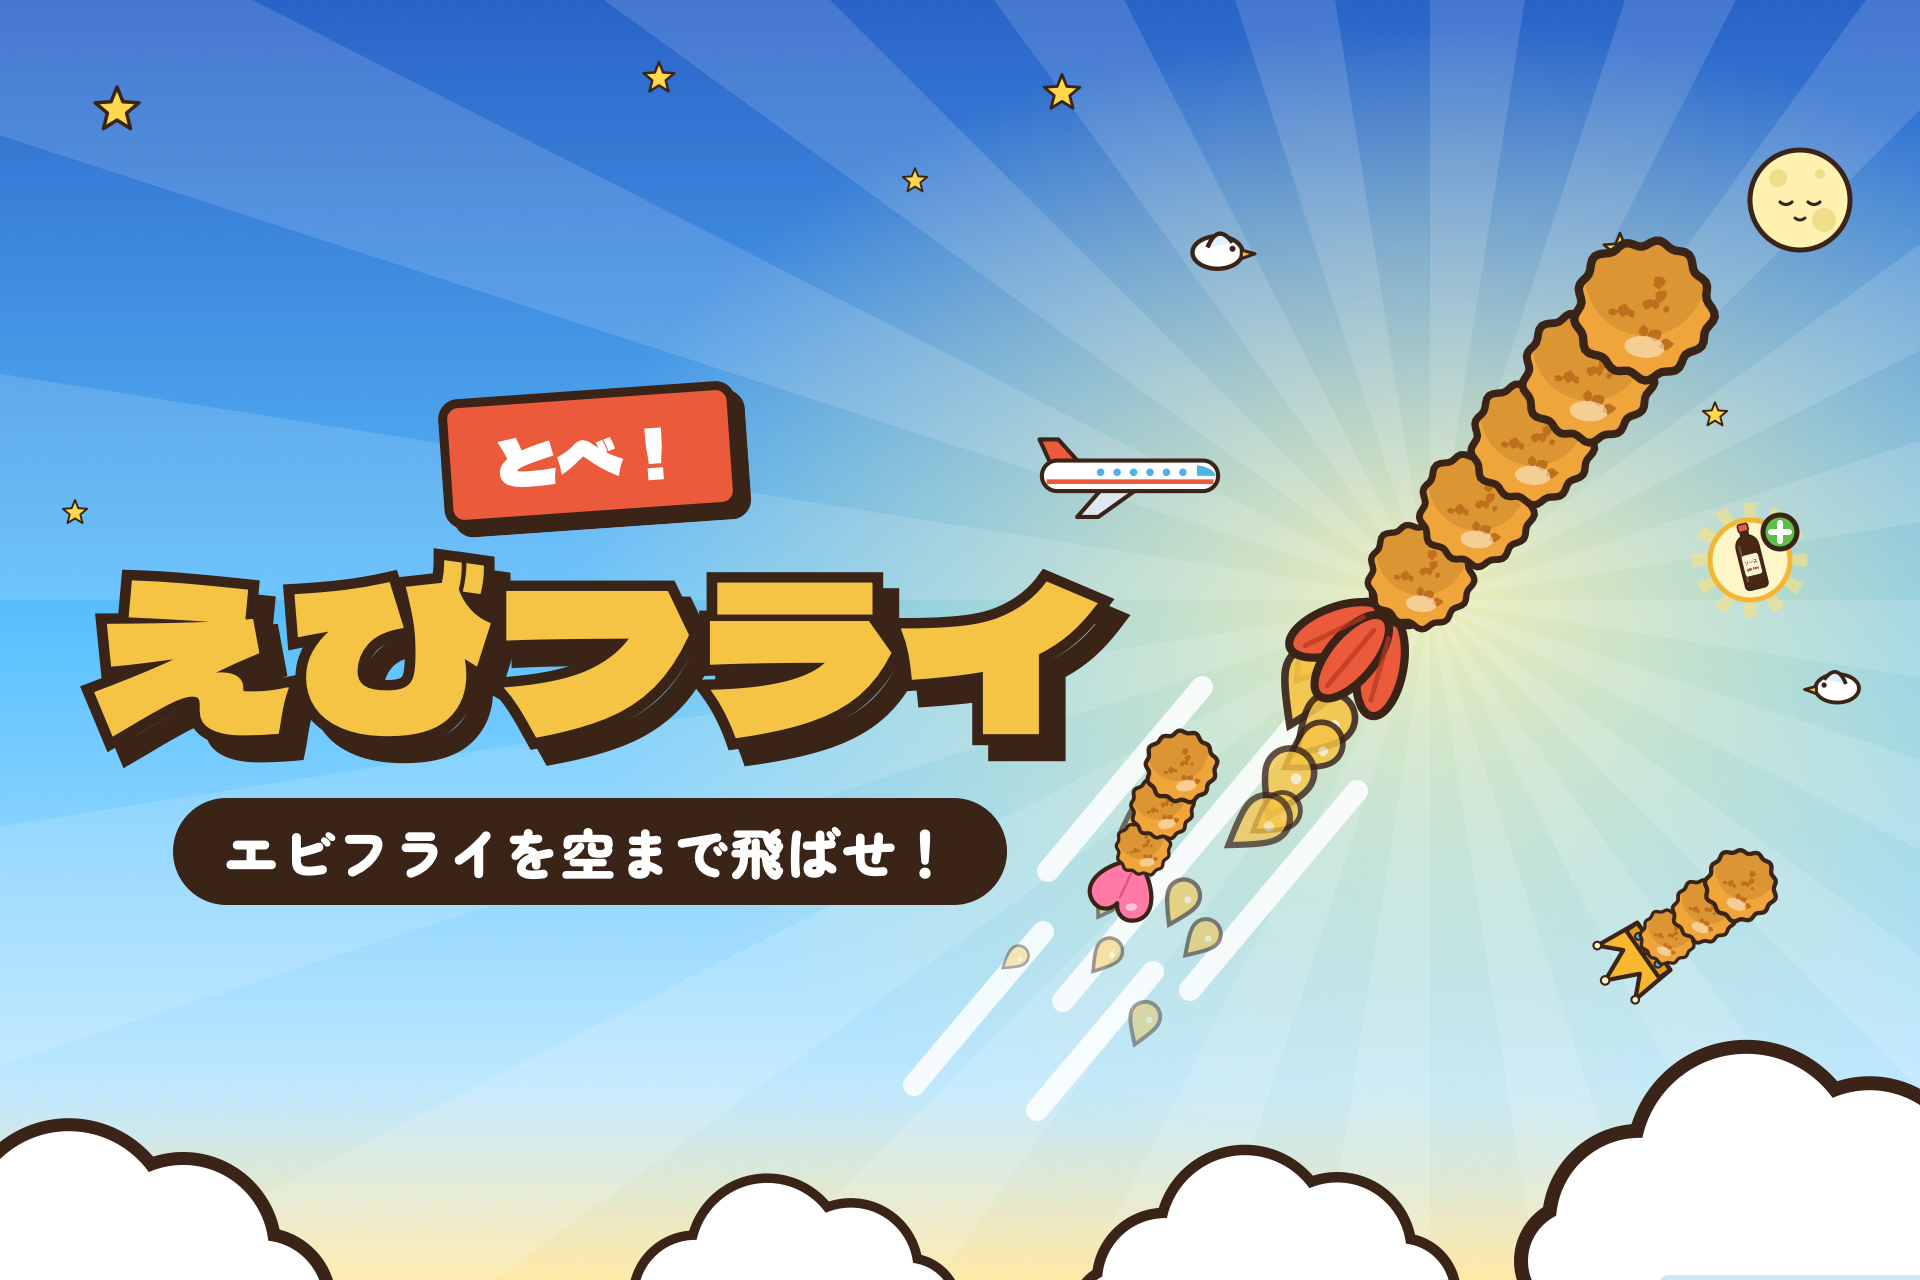
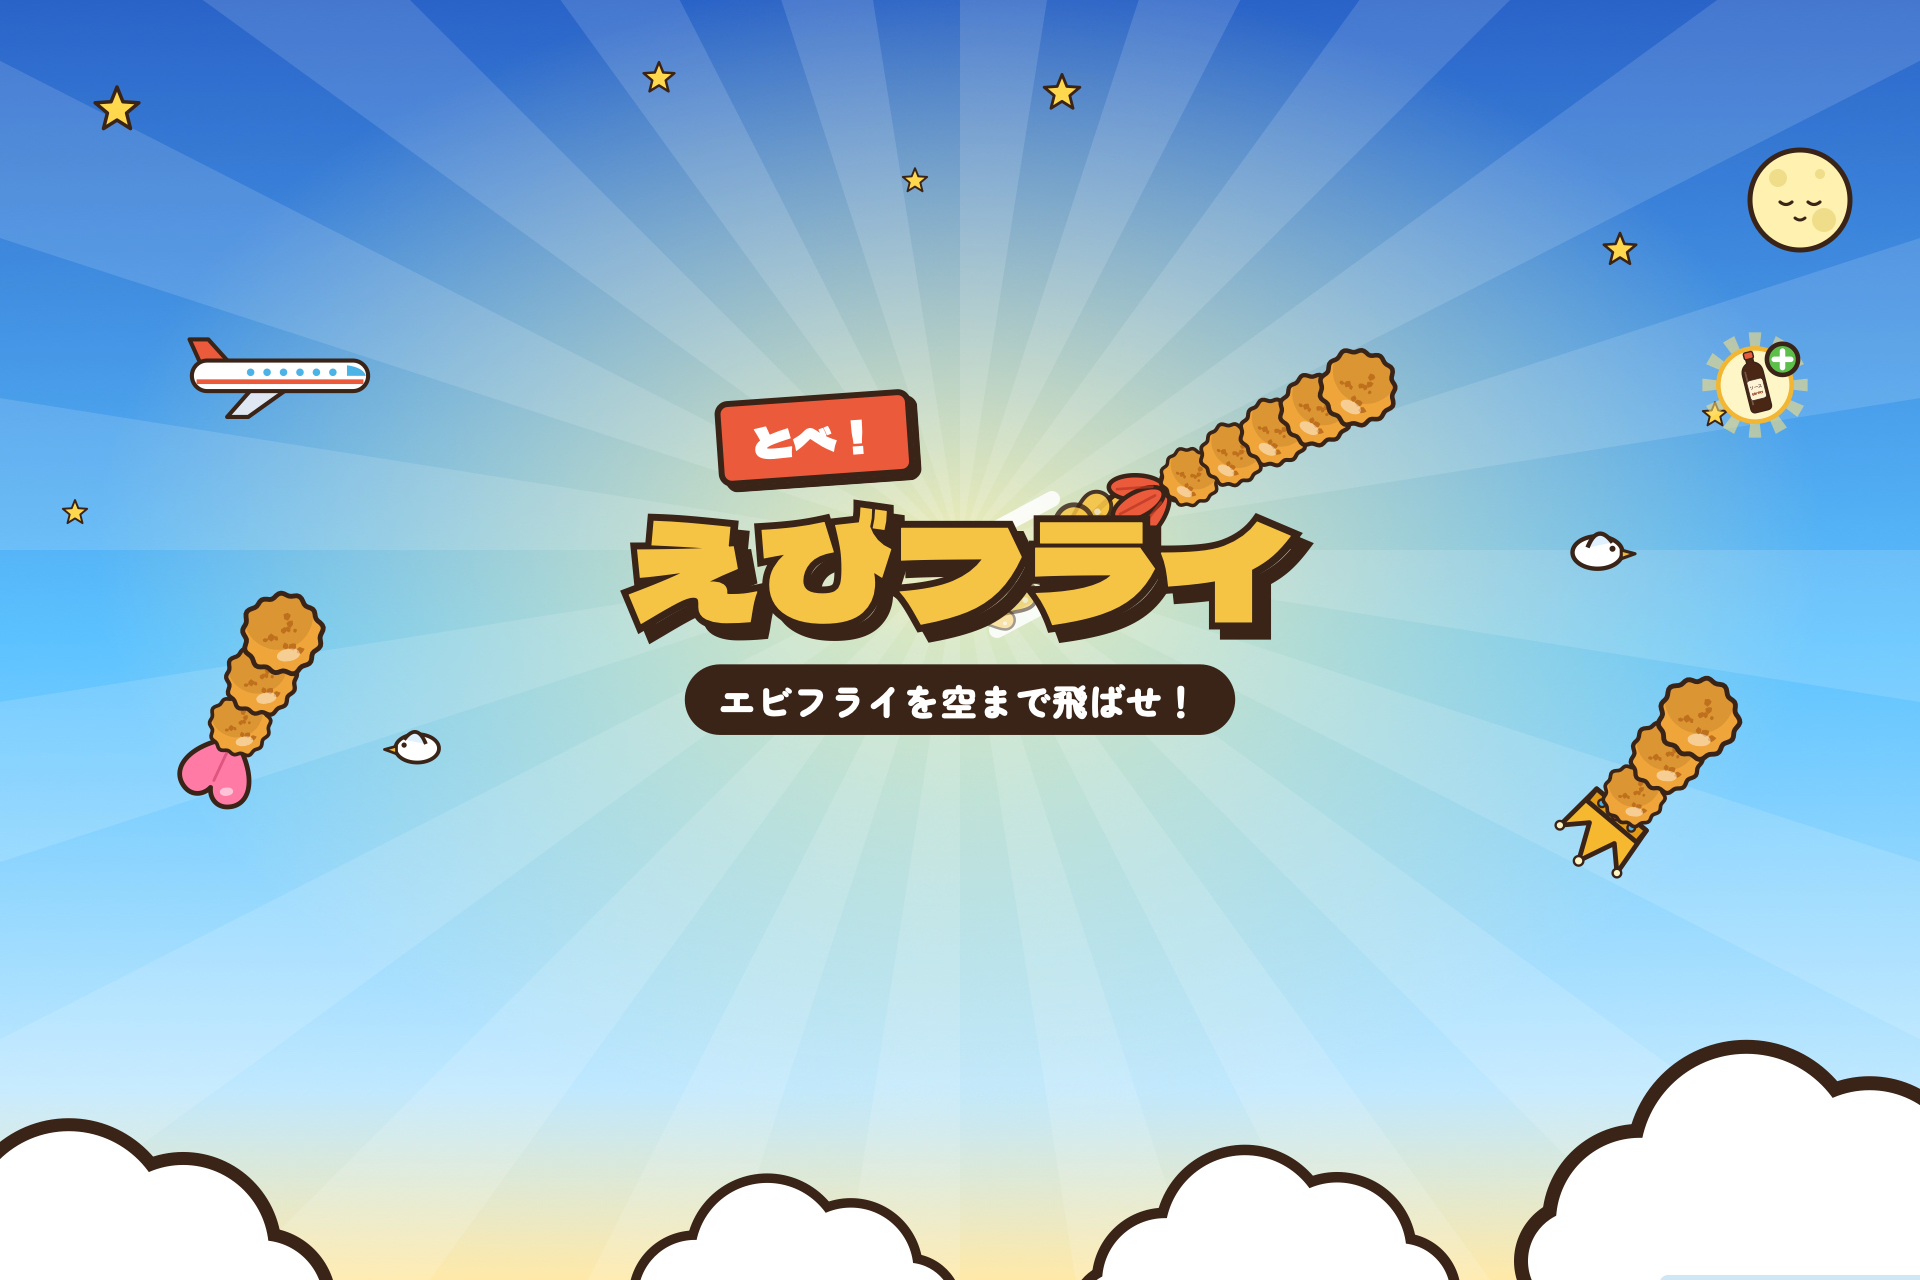
リーダーボードIDを変更

diff --git a/ebiFly/Services/GameCenter.swift b/ebiFly/Services/GameCenter.swift
@@ -6,7 +6,8 @@ import UIKit
 @MainActor
 final class GameCenter: ObservableObject {
     static let shared = GameCenter()
-    static let leaderboardID = "ebifly.distance"
+    // v2: the original "ebifly.distance" was released with the wrong sort order (Low to High); this one is High to Low.
+    static let leaderboardID = "ebifly.distance.v2"
 
     @Published private(set) var isAuthenticated = false
     private var pendingLogin: UIViewController?

diff --git a/Design/store_search.py b/Design/store_search.py
@@ -1,8 +1,8 @@
 #!/usr/bin/env python3
 """App Store search-result artwork (5244x2950 / 3840x2560 / 1920x1280, opaque PNG).
 
-Big catch copy on the left; on the right three fried shrimp blast out of the frying pot (fry -> fly),
-drawn with the app's own SVG symbols (art.py). Kept bold and simple so it reads at thumbnail size.
+Catch copy with three fried shrimp blasting out of the frying pot beside it (fry -> fly), drawn with the
+app's own SVG symbols (art.py). The copy and pot are packed into the centre so the iPhone crop keeps them.
 
     python3 Design/store_search.py   ->  Design/store/search-<w>x<h>.png
 """
@@ -22,20 +22,42 @@ W = 1920  # design width; height follows the aspect ratio (1080 for 16:9, 1280 f
 SIZES = [(5244, 2950), (3840, 2560), (1920, 1280)]
 
 
-def scene(dh):
-    rng = random.Random(9)
-    c = 0.86 if dh < 1200 else 1.0  # 16:9 is shorter: shrink the shrimp so the lead one clears the top edge
-    px, top = 1400, dh - 400          # pot centre x / top edge of the pot symbol
+# The cast (copy + pot + shrimp) is laid out in its own CW x CH frame, then shrunk into the iPhone-visible box.
+# On iPhone the App Store shows only the centre ~53% of the width and the top ~63% of the height of a 16:9
+# artwork, with the status bar / buttons over the top (see store_header.SAFE); the rest is decoration.
+CW, CH = 1700, 860
+BOX = (540, 240, 1380, 670)  # target box in the 1920x1080 frame; 3:2 canvases shift it down by (dh - 1080) / 2
+
+
+def cast_frame():
+    px, top = 1370, 500               # pot centre x / top edge of the pot symbol
     pw, ph = 340 * 2.0, 180 * 2.0
     rim = top + 40 * 2.0              # y of the oil surface
-    cx, cy = px, rim - 260            # sunburst centre, behind the shrimp
+    return px, top, pw, ph, rim
+
+
+def placement(dh):
+    x0, y0, x1, y1 = BOX
+    oy = (dh - 1080) / 2 if dh > 1080 else 0
+    sc = min((x1 - x0) / CW, (y1 - y0) / CH)
+    tx = (x0 + x1) / 2 - CW * sc / 2
+    ty = oy + (y0 + y1) / 2 - CH * sc / 2
+    return sc, tx, ty
+
+
+def scene(dh):
+    rng = random.Random(9)
+    sc, tx, ty = placement(dh)
+    px, top, pw, ph, rim = cast_frame()
+    cx, cy = tx + CW / 2 * sc, ty + CH / 2 * sc  # sunburst centre, behind the cast
     rays = "".join(
-        f'<path d="M{cx} {cy} L{cx + 2600 * math.cos(math.radians(a)):.0f} {cy + 2600 * math.sin(math.radians(a)):.0f} '
+        f'<path d="M{cx:.0f} {cy:.0f} L{cx + 2600 * math.cos(math.radians(a)):.0f} {cy + 2600 * math.sin(math.radians(a)):.0f} '
         f'L{cx + 2600 * math.cos(math.radians(a + 9)):.0f} {cy + 2600 * math.sin(math.radians(a + 9)):.0f}Z" fill="#fff" opacity=".16"/>'
         for a in range(0, 360, 18)
     )
     stars = "".join(use("star", x, y, z, z) for x, y, z in
-                    [(80, 60, 50), (560, 40, 36), (980, 90, 44), (1840, 70, 46), (1880, 420, 30), (70, dh - 330, 34)])
+                    [(80, 60, 50), (560, 40, 36), (980, 90, 44), (1840, 70, 46), (1880, 420, 30), (70, dh - 330, 34),
+                     (300, 420, 30), (1600, 560, 34)])
     # oil splashing out of the pot
     splash = []
     for i in range(12):
@@ -47,21 +69,29 @@ def scene(dh):
                       f'transform="rotate({math.degrees(a) + 90:.0f} {x:.0f} {y:.0f})"/>')
     lines = "".join(f'<path d="M{px + dx} {rim - 40} L{px + dx * 1.25} {rim - 40 - ln}"/>'
                     for dx, ln in [(-250, 160), (-120, 260), (130, 260), (260, 160)])
+    c = 0.86
     return f"""
 <defs>
  <linearGradient id="srSky" x1="0" y1="0" x2="0" y2="1">
   <stop offset="0" stop-color="#2a63c8"/><stop offset=".45" stop-color="#5cc2ff"/><stop offset=".8" stop-color="#bfe8ff"/><stop offset="1" stop-color="#ffe9a8"/>
  </linearGradient>
- <radialGradient id="srGlow" cx="{cx / W}" cy="{cy / dh}" r=".5"><stop offset="0" stop-color="#fff3b0" stop-opacity=".95"/><stop offset="1" stop-color="#fff3b0" stop-opacity="0"/></radialGradient>
+ <radialGradient id="srGlow" cx="{cx / W}" cy="{cy / dh}" r=".4"><stop offset="0" stop-color="#fff3b0" stop-opacity=".95"/><stop offset="1" stop-color="#fff3b0" stop-opacity="0"/></radialGradient>
 </defs>
 <rect width="{W}" height="{dh}" fill="url(#srSky)"/>
 <rect width="{W}" height="{dh}" fill="url(#srGlow)"/>
 {rays}
 {stars}
+{use("plane", 170, 220, 200, 94)}
+{use("moon", 1720, 150, 120, 120)}
+{use("bird", 1560, 380, 80, 55)}
+{use("bird", 330, 600, 70, 48)}
 {use("cloud", -170, dh - 210, 560, 314)}
 {use("cloud", 560, dh - 150, 400, 224)}
+{use("cloud", 1100, dh - 170, 420, 235)}
 {use("cloud", 1640, dh - 330, 460, 258)}
-{use("bird", 1760, 230, 80, 55)}
+{shrimp(230, dh - 330, -20, 0.9, 3, "heart")}
+{shrimp(1700, dh - 380, 25, 0.9, 3, "crown")}
+<g transform="translate({tx:.1f} {ty:.1f}) scale({sc:.4f})">
 <g stroke="#fff" stroke-width="20" stroke-linecap="round" opacity=".85">{lines}</g>
 {use("pot-back", px - pw / 2, top, pw, ph)}
 {''.join(splash)}
@@ -69,12 +99,14 @@ def scene(dh):
 {shrimp(px + 250, rim - 330 * c, 28, 1.05 * c, 4, "crown")}
 {shrimp(px, rim - 470 * c, 0, 1.45 * c, 5, "normal")}
 {use("pot-front", px - pw / 2, top, pw, ph)}
+</g>
 """
 
 
 def page(width, height):
     dh = round(W * height / width)
     k = width / W
+    sc, tx, ty = placement(dh)
     fonts = (ROOT / "fonts").as_uri()
     return f"""<!doctype html><html><head><meta charset="utf-8"><style>
 @font-face {{ font-family: Dela; src: url('{fonts}/DelaGothicOne-Regular.ttf'); }}
@@ -82,19 +114,20 @@ def page(width, height):
 html, body {{ margin: 0; width: {width}px; height: {height}px; overflow: hidden; background: #5cc2ff; }}
 .stage {{ position: absolute; left: 0; top: 0; width: {W}px; height: {dh}px; transform: scale({k}); transform-origin: 0 0; }}
 .stage > svg {{ position: absolute; inset: 0; }}
-.copy {{ position: absolute; left: 70px; top: {dh / 2 - 300:.0f}px; width: 960px; text-align: center; }}
+.cast {{ position: absolute; left: {tx:.1f}px; top: {ty:.1f}px; width: {CW}px; height: {CH}px; transform: scale({sc:.4f}); transform-origin: 0 0; }}
+.copy {{ position: absolute; left: 0; top: {CH / 2 - 290:.0f}px; width: 1060px; text-align: center; }}
 .head {{ font-family: Dela; font-size: 148px; line-height: 1.22; color: #f6c445; white-space: nowrap;
   -webkit-text-stroke: 18px {INK}; paint-order: stroke fill; text-shadow: 13px 13px 0 {INK}; }}
 .head .w {{ color: #fff; }}
 .sub {{ display: inline-block; margin-top: 44px; padding: 14px 48px; border-radius: 999px; background: {INK}; color: #fff;
-  font-family: ZenBlack; font-size: 52px; letter-spacing: .03em; }}
+  font-family: ZenBlack; font-size: 52px; letter-spacing: .03em; white-space: nowrap; }}
 </style></head><body><div class="stage">
 {art.symbols_block()}
 <svg viewBox="0 0 {W} {dh}" width="{W}" height="{dh}">{scene(dh)}</svg>
-<div class="copy">
+<div class="cast"><div class="copy">
  <div class="head"><span class="w">揚げて</span>、<br>空まで飛ばせ！</div>
  <div class="sub">ふって・かたむけて遊ぶアクション</div>
-</div>
+</div></div>
 </div></body></html>"""
 
 

diff --git a/Design/store_header.py b/Design/store_header.py
@@ -2,7 +2,10 @@
 """App Store header / promotional artwork (App Store Connect header / search-result sizes, opaque PNG).
 
 Logo + catch copy on the left, a big fried shrimp blasting off on the right, built from the same
-SVG symbols as the app art (art.py). Key content stays inside the centre so 16:9 crops are safe.
+SVG symbols as the app art (art.py).
+On iPhone the App Store shows only the centre ~53% of the width and the top ~63% of the height of a
+16:9 header, with the status bar and back/share buttons over the top. So the logo, copy and hero shrimp
+all sit inside SAFE; everything outside it is decoration that only iPad/Mac show.
 
     python3 Design/store_header.py   ->  Design/store/header-<w>x<h>.png for each size in SIZES
 """
@@ -20,6 +23,8 @@ INK = art.INK
 W, H = 1920, 1080  # reference layout (16:9); other aspect ratios widen the canvas and rescale around it
 # sizes App Store Connect accepts: header 5244x2950 / 3840x1646, search results 5244x2950 / 3840x2560 / 1920x1280
 SIZES = [(5244, 2950), (3840, 1646), (3840, 2560), (1920, 1280)]
+# iPhone-visible box for key content, in the 1920x1080 reference layout (x0, y0, x1, y1), with a margin
+SAFE = (540, 260, 1380, 640)
 
 
 def use(sym, x, y, w, h, extra=""):
@@ -34,7 +39,7 @@ def shrimp(x, y, angle, scale, n, tail):
 
 def scene(dw, dh, s, tx, ty):
     # dw x dh: canvas in design units; the shrimp group is drawn in 1920x1080 coordinates, scaled by s and moved by (tx, ty)
-    cx, cy = tx + 1430 * s, ty + 500 * s  # centre of the sunburst, behind the hero shrimp
+    cx, cy = tx + 960 * s, ty + 450 * s  # centre of the sunburst, behind the logo
     rays = "".join(
         f'<path d="M{cx} {cy} L{cx + 2200 * math.cos(math.radians(a)):.0f} {cy + 2200 * math.sin(math.radians(a)):.0f} '
         f'L{cx + 2200 * math.cos(math.radians(a + 9)):.0f} {cy + 2200 * math.sin(math.radians(a + 9)):.0f}Z" fill="#fff" opacity=".13"/>'
@@ -44,19 +49,19 @@ def scene(dw, dh, s, tx, ty):
     stars = "".join(use("star", x * dw / W, y * dh / H, z, z) for x, y, z in
                     [(90, 70, 54), (640, 50, 38), (900, 140, 30), (1040, 60, 44), (60, 420, 30)])
     # hero: flying up-right; the trail of fuel drops and speed lines runs back down-left from the tail
-    hx, hy, ang = 1500, 380, 40
+    hx, hy, ang = 1250, 345, 62
     back = math.radians(ang + 180)
     dx, dy = math.sin(back), -math.cos(back)  # unit vector pointing from head towards the tail
     drops = []
-    for i in range(16):
-        d = 230 + i * 30 + rng.uniform(-10, 10)
-        side = rng.uniform(-70, 70) * (0.4 + i / 16)
+    for i in range(7):
+        d = 150 + i * 26 + rng.uniform(-10, 10)
+        side = rng.uniform(-40, 40) * (0.4 + i / 7)
         px, py = hx + dx * d - dy * side, hy + dy * d + dx * side
-        z = max(26, 64 - i * 2.4) * rng.uniform(.8, 1.1)
+        z = max(22, 44 - i * 3) * rng.uniform(.8, 1.1)
         drops.append(f'<use href="#oil-drop" x="{px - z / 2:.0f}" y="{py - z / 2:.0f}" width="{z:.0f}" height="{z * 1.35:.0f}" '
-                     f'transform="rotate({ang + 180 + rng.uniform(-20, 20):.0f} {px:.0f} {py:.0f})" opacity="{max(.35, 1 - i * .04):.2f}"/>')
+                     f'transform="rotate({ang + 180 + rng.uniform(-20, 20):.0f} {px:.0f} {py:.0f})" opacity="{max(.35, 1 - i * .09):.2f}"/>')
     lines = []
-    for off, ln, d0 in [(-90, 260, 330), (0, 380, 300), (95, 240, 350), (-50, 180, 600), (60, 200, 640)]:
+    for off, ln, d0 in [(-45, 120, 190), (0, 170, 170), (45, 110, 200)]:
         x1, y1 = hx + dx * d0 - dy * off, hy + dy * d0 + dx * off
         lines.append(f'<path d="M{x1:.0f} {y1:.0f} L{x1 + dx * ln:.0f} {y1 + dy * ln:.0f}"/>')
     return f"""
@@ -73,21 +78,21 @@ def scene(dw, dh, s, tx, ty):
 <g transform="translate({tx:.0f} {ty:.0f}) scale({s:.4f})">
 {use("star", 1600, 130, 40, 40)}{use("star", 1700, 300, 30, 30)}
 {use("moon", 1740, 40, 120, 120)}
-{use("plane", 1030, 330, 200, 94)}
-{use("bird", 1180, 120, 80, 55)}
-{use("bird", 1800, 560, 70, 48, 'transform="scale(-1 1) translate(-3670 0)"')}
+{use("plane", 180, 230, 200, 94)}
+{use("bird", 1560, 420, 80, 55)}
+{use("bird", 380, 620, 70, 48, 'transform="scale(-1 1) translate(-830 0)"')}
 </g>
 {use("cloud", -160, dh - 180, 520, 291)}
 {use("cloud", 600 * dw / W, dh - 120, 380, 213)}
 {use("cloud", dw - 420, dh - 260, 560, 314)}
 {use("cloud", 1060 * dw / W, dh - 150, 420, 235)}
 <g transform="translate({tx:.0f} {ty:.0f}) scale({s:.4f})">
-<g stroke="#fff" stroke-width="22" stroke-linecap="round" opacity=".85">{''.join(lines)}</g>
+<g stroke="#fff" stroke-width="16" stroke-linecap="round" opacity=".85">{''.join(lines)}</g>
 {''.join(drops)}
-{shrimp(1170, 690, 25, 0.8, 3, "heart")}
-{shrimp(1720, 800, 55, 0.8, 3, "crown")}
-{shrimp(hx, hy, ang, 1.55, 5, "normal")}
-{use("fuel", 1690, 400, 120, 120)}
+{shrimp(270, 560, 25, 0.9, 3, "heart")}
+{shrimp(1680, 640, 40, 0.9, 3, "crown")}
+{shrimp(hx, hy, ang, 0.85, 5, "normal")}
+{use("fuel", 1700, 230, 110, 110)}
 </g>
 """
 
@@ -104,7 +109,7 @@ def page(width, height):
         dh = H if ratio < 2 else 960
         dw = round(dh * ratio)
         s = dh / H
-        tx, ty = dw - W * s - (60 if dw > W else 0), 0
+        tx, ty = (dw - W * s) / 2, 0  # keep the reference layout centred so the iPhone crop holds the logo
     k = width / dw
     return f"""<!doctype html><html><head><meta charset="utf-8"><style>
 @font-face {{ font-family: Dela; src: url('{fonts}/DelaGothicOne-Regular.ttf'); }}
@@ -112,10 +117,10 @@ def page(width, height):
 html, body {{ margin: 0; width: {width}px; height: {height}px; overflow: hidden; background: #5cc2ff; }}
 .stage {{ position: absolute; left: 0; top: 0; width: {dw}px; height: {dh}px; transform: scale({k}); transform-origin: 0 0; }}
 .stage > svg {{ position: absolute; inset: 0; }}
-.copy {{ position: absolute; left: {90 + (dw - W * s) * .35:.0f}px; top: {dh / 2 - 250 * s:.0f}px; width: 1000px; text-align: center;
-  transform: scale({s:.4f}); transform-origin: 0 0; }}
+.copy {{ position: absolute; left: {tx + 960 * s:.0f}px; top: {ty + 465 * s:.0f}px; width: 1100px; text-align: center;
+  transform: translate(-50%, -50%) scale({s * .66:.4f}); transform-origin: 50% 50%; }}
 .tag {{ display: inline-block; transform: rotate(-4deg); padding: 10px 44px; border-radius: 20px; background: #ec5a3c; color: #fff;
-  font-family: Dela; font-size: 64px; border: 9px solid {INK}; box-shadow: 9px 9px 0 {INK}; }}
+  font-family: Dela; font-size: 64px; margin-right: 440px; border: 9px solid {INK}; box-shadow: 9px 9px 0 {INK}; }}
 .logo {{ font-family: Dela; font-size: 200px; line-height: 1.1; white-space: nowrap; color: #f6c445; margin-top: 18px;
   -webkit-text-stroke: 22px {INK}; paint-order: stroke fill; text-shadow: 16px 16px 0 {INK}; letter-spacing: .01em; }}
 .sub {{ display: inline-block; margin-top: 40px; padding: 14px 52px; border-radius: 999px; background: {INK}; color: #fff;

diff --git a/Design/leaderboard.py b/Design/leaderboard.py
@@ -1,5 +1,5 @@
 #!/usr/bin/env python3
-"""Game Center leaderboard artwork (1024 x 1024, no alpha) for the "ebifly.distance" leaderboard.
+"""Game Center leaderboard artwork (1024 x 1024, no alpha) for the "ebifly.distance.v2" leaderboard.
 
 Three fried shrimp on a winners' podium under a starry sky. Built from the same symbols as the app art.
 
